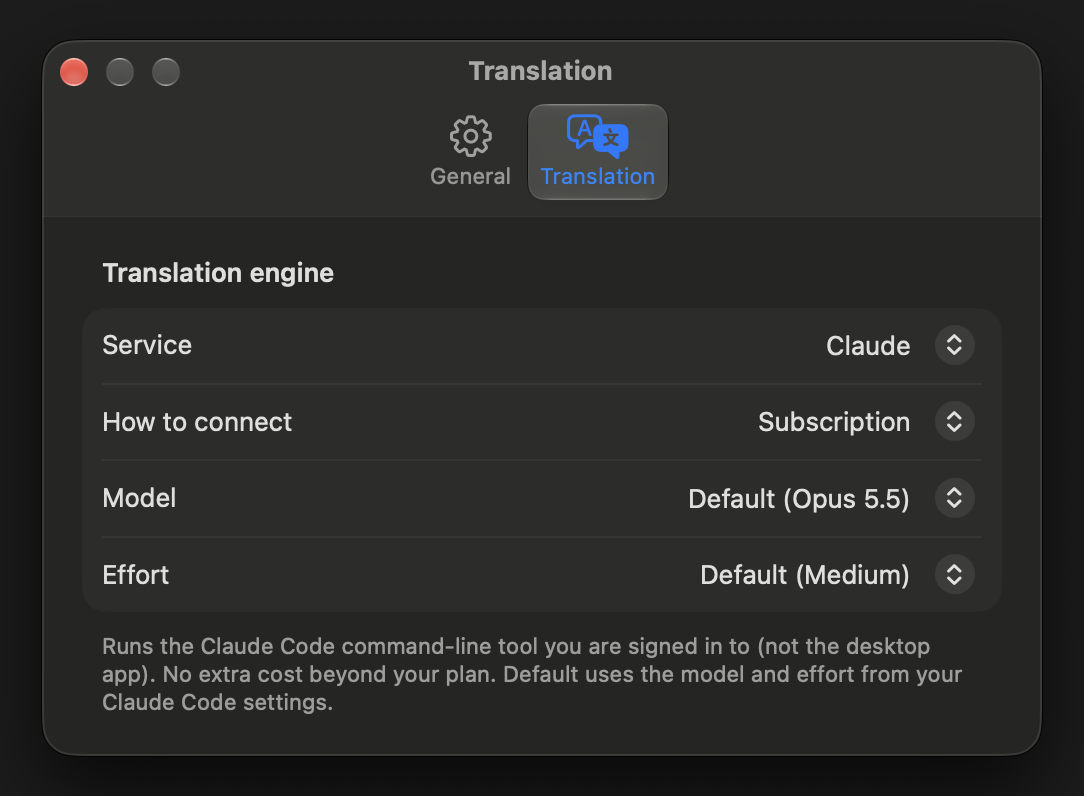
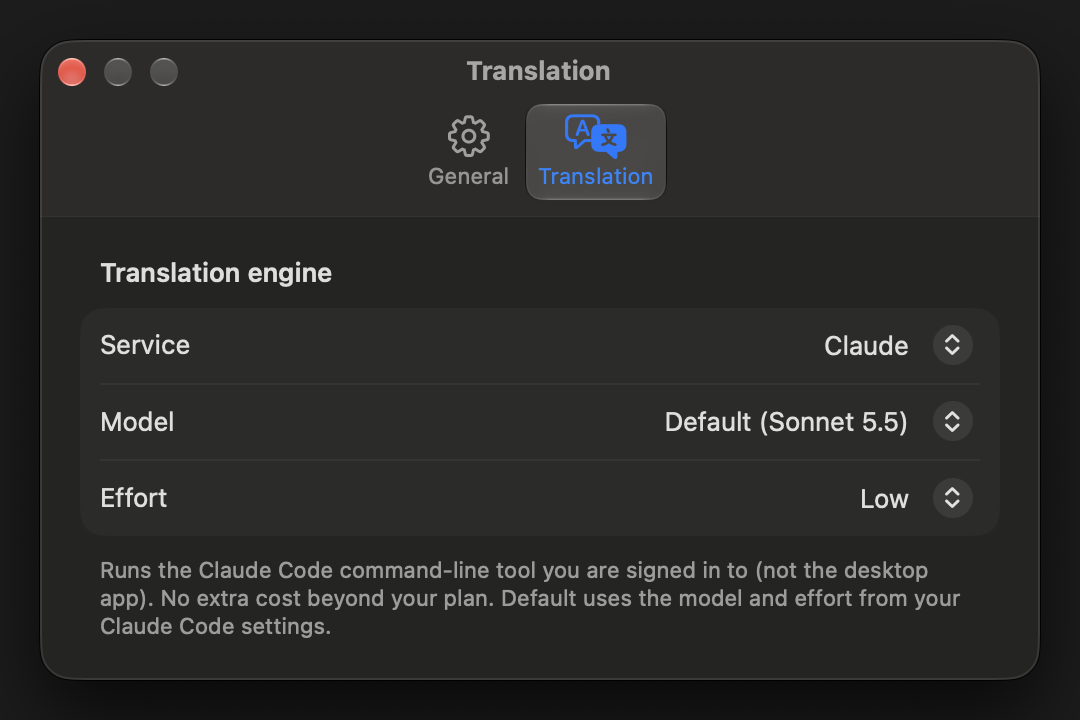
Regenerate screenshots for 3.1 without the API-key mode
The Translation pane no longer has the connection picker, the menu's
engine row reads Ready, and Settings shows version 3.1; the link
preview is rebuilt from the new menu screenshot.

diff --git a/CLAUDE.md b/CLAUDE.md
@@ -37,7 +37,9 @@ detail, including the secrets and where the keys are kept (1Password):
   `./capture-screenshots.sh` (it also regenerates `screenshots/`, light and
   dark, flipping the system to Dark Mode and back; needs
   Accessibility and Screen Recording for the terminal and a Mac left alone;
-  a closed menu mid-run fails it, rerun once). System Events `entire contents`
+  a closed menu mid-run fails it, rerun once; the General pane's bottom margin
+  reaches the Dock, and a Dock label there passes the covered-window check, so
+  look at the bottom of `general*.png` before committing). System Events `entire contents`
   does not reach the SwiftUI controls in Settings: press them by walking
   `AXUIElement` children and matching the title or accessibility label. A
   picker is an `AXPopUpButton` (its value is the selection): press it, then
